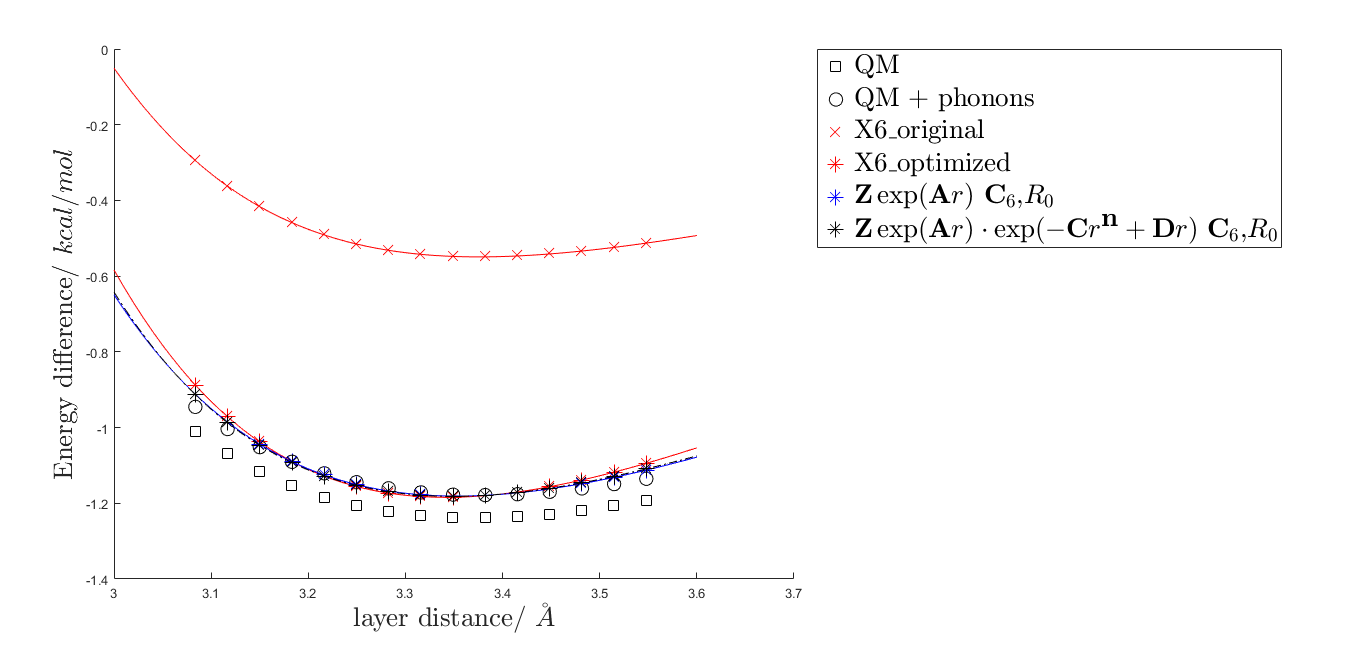
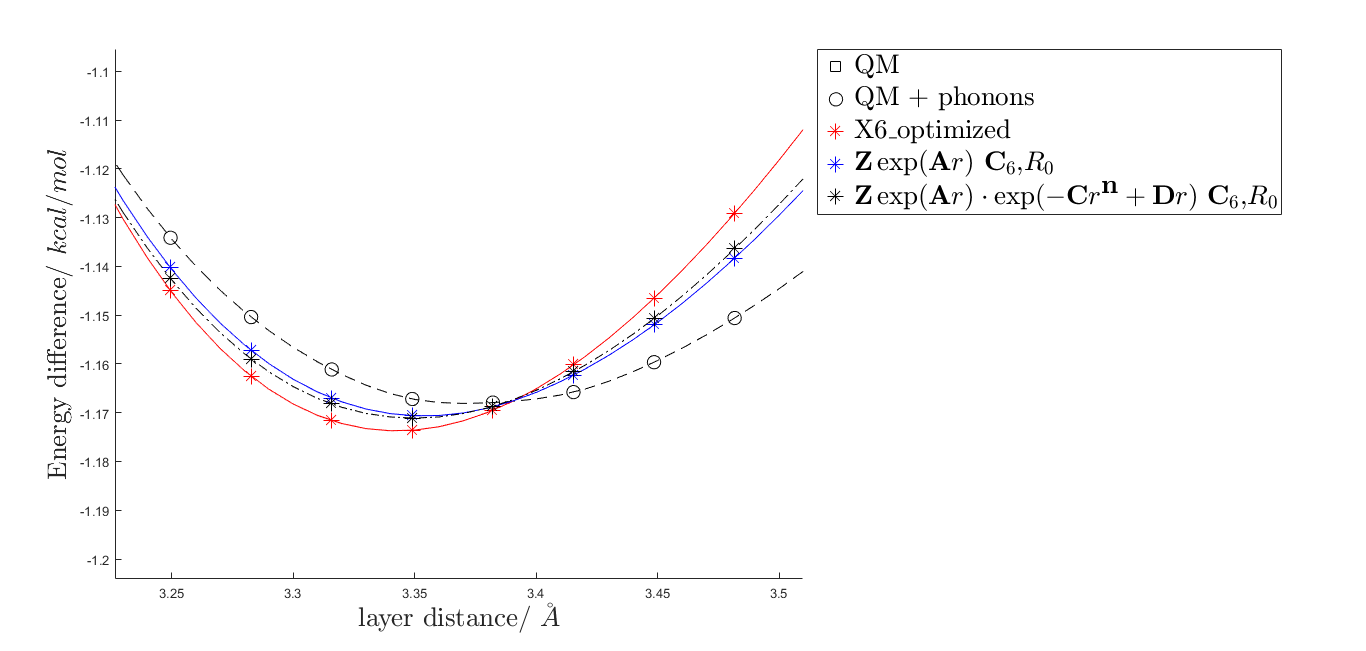
two body curve update

diff --git a/data/two_body.m b/data/two_body.m
@@ -15,7 +15,7 @@ CC= LatticeC / 2;
 figure; hold on;
 plotQM = plot (CC, QM, 'sk','MarkerSize',10);
 plotQMph = plot (CC, QMph, 'ok','MarkerSize',10);
-
+yy = spline(CC,QMph,xx); plot(xx, yy, '--k');
 
 % plotX6S_original = plot(CC , X6S_original, 'xb','MarkerSize',10); plotX6S_optimized = plot(CC , X6S_optimized, '*b','MarkerSize',10);
 % yy = spline(CC,X6S_original,xx); plot(xx, yy, '-b');
@@ -23,8 +23,9 @@ plotQMph = plot (CC, QMph, 'ok','MarkerSize',10);
 % plotLJ_original = plot(CC , LJ_original, 'xg','MarkerSize',10); plotLJ_optimized = plot(CC , LJ_optimized, '*g','MarkerSize',10);
 % yy = spline(CC,LJ_original,xx); plot(xx, yy, '-g');
 % yy = spline(CC,LJ_optimized,xx); plot(xx, yy, '-g');
-plotX6_original = plot(CC , X6_original, 'xr','MarkerSize',10); plotX6_optimized = plot(CC , X6_optimized, '*r','MarkerSize',10);
-yy = spline(CC,X6_original,xx); plot(xx, yy, '-r');
+% plotX6_original = plot(CC , X6_original, 'xr','MarkerSize',10); 
+plotX6_optimized = plot(CC , X6_optimized, '*r','MarkerSize',10);
+% yy = spline(CC,X6_original,xx); plot(xx, yy, '-r');
 yy = spline(CC,X6_optimized,xx); plot(xx, yy, '-r');
 
 plotEXP1_optimized = plot(CC , EXP1_optimized, 'b*','MarkerSize',10);
@@ -37,12 +38,12 @@ plotEXPfull_optimized = plot(CC , EXPfull_optimized, 'k*','MarkerSize',10);
 yy = spline(CC,EXPfull_optimized,xx); plot(xx, yy, 'k-.');
 h = legend([plotQM, ... 
     plotQMph, ...
-    plotX6_original, plotX6_optimized, ... 
+    plotX6_optimized, ... 
     plotEXP1_optimized, ...
     plotEXPfull_optimized], ...
     'QM', ...
     'QM + phonons', ...
-    'X6\_original', 'X6\_optimized', ...
+    'X6\_optimized', ...
     '$$\textbf{Z}\exp(\textbf{A}r)$$    $$\textbf{C}_6$$,$$R_0$$', ...
     '$$\textbf{Z}\exp(\textbf{A}r)\cdot\exp(-\textbf{C}r^\textbf{n}+\textbf{D}r)$$   $$\textbf{C}_6$$,$$R_0$$' ...
     );
